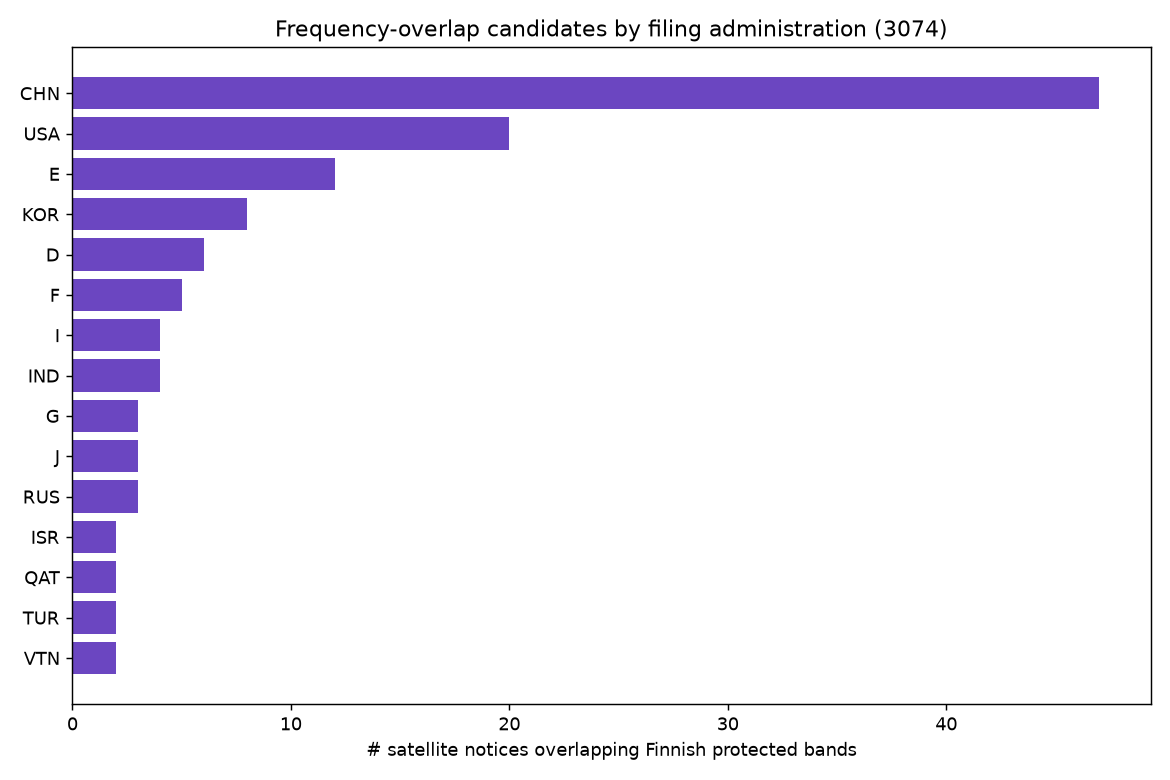
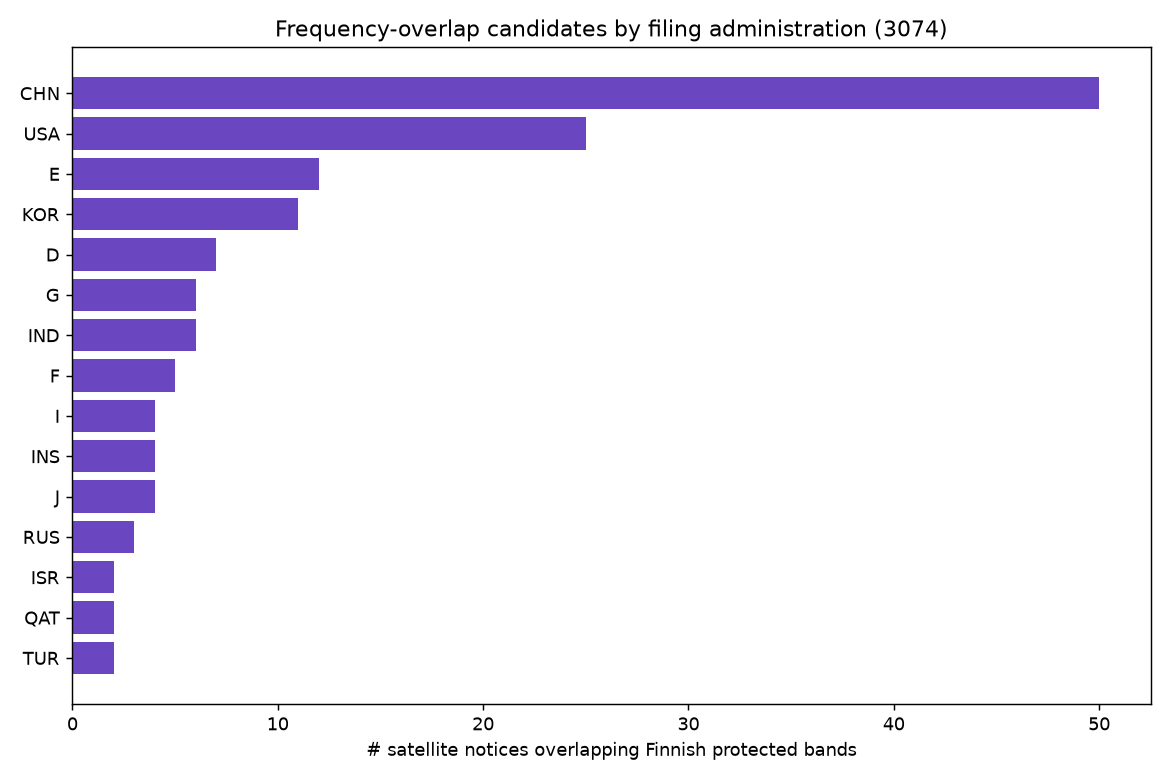
Add adjacent-band interference tier (FDR) to the triage pipeline
- adjacent.py: guard-band search + frequency-dependent rejection (SM.1541-style)
- freq_overlap.py: emit co-channel AND adjacent pairs (proximity/offset)
- pfd_score.py: subtract FDR(offset) from interfering PFD before Article-21 test
- 179 adjacent-band exceedances found (reinforce the same 22 flagged notices)
- REPORT.md + triage plot updated (co-channel vs adjacent split)

diff --git a/analysis/pfd_score.py b/analysis/pfd_score.py
@@ -45,6 +45,7 @@ sys.path.insert(0, str(Path(__file__).resolve().parent))
 from pfd import (slant_range_km, pfd_dbw_m2, elevation_from_central_angle,
                  central_angle_deg, GSO_ALT_KM)
 import article21
+import adjacent
 
 ROOT = Path(__file__).resolve().parent.parent
 SRS = ROOT / "analysis" / "srs3074.db"
@@ -55,8 +56,9 @@ ELEV_SWEEP = np.arange(5, 91, 5)   # achievable elevations to test
 
 def load_inputs():
     srs = sqlite3.connect(SRS)
-    ov = pd.read_sql("""SELECT sat_ntc_id, adm, station_no, overlap_lo_mhz,
-                               overlap_hi_mhz, licence_class, band
+    ov = pd.read_sql("""SELECT sat_ntc_id, adm, station_no, interf_freq_mhz,
+                               proximity, offset_mhz, sat_lo_mhz, sat_hi_mhz,
+                               licence_class, band
                         FROM fin_freq_overlap""", srs)
 
     # per-notice orbit classification
@@ -93,6 +95,7 @@ def load_inputs():
 
     fin = sqlite3.connect(FIN)
     st = pd.read_sql("SELECT station_no, lat, lon FROM v_clean", fin)
+    st = st.drop_duplicates("station_no")      # some station_no repeat in v_clean
     fin.close()
 
     cand = pd.DataFrame({"ntc_id": ov["sat_ntc_id"].unique()})
@@ -139,8 +142,10 @@ def matched_eirp_eff(emis_rows, freq_mhz, ref_bw_hz):
     return best
 
 
-def score_pair(nrow, srow, freq_mhz, cpfd_rows, emis_rows):
-    """Return dict with geometry + PFD margin for one (notice, station) pair."""
+def score_pair(nrow, srow, freq_mhz, cpfd_rows, emis_rows, fdr=0.0):
+    """Return dict with geometry + PFD margin for one (notice, station) pair.
+    `fdr` (dB) is the adjacent-band frequency-dependent rejection subtracted from
+    the interfering PFD (0 for co-channel)."""
     lat, lon = srow["lat"], srow["lon"]
     # ---- step 2: achievable elevations ----
     if nrow["is_gso"]:
@@ -192,6 +197,7 @@ def score_pair(nrow, srow, freq_mhz, cpfd_rows, emis_rows):
     for e, d in zip(elevs, slants):
         lim, _ = article21.limit(freq_mhz, e)
         pfd = declared if src == "declared" else pfd_dbw_m2(eirp_eff, d)
+        pfd -= fdr                              # adjacent-band rejection
         margin = pfd - lim
         rec = {"elev": float(e), "slant_km": float(d), "pfd": pfd,
                "limit": lim, "margin": margin}
@@ -209,13 +215,17 @@ def main():
     for r in ov.itertuples():
         if r.sat_ntc_id not in notice.index or r.station_no not in st.index:
             continue
-        freq_mhz = (r.overlap_lo_mhz + r.overlap_hi_mhz) / 2.0
+        freq_mhz = r.interf_freq_mhz
+        sat_bw = r.sat_hi_mhz - r.sat_lo_mhz
+        fdr = adjacent.fdr_db(r.offset_mhz, sat_bw) if r.proximity == "adjacent" else 0.0
         res = score_pair(notice.loc[r.sat_ntc_id], st.loc[r.station_no],
                          freq_mhz, cpfd_by_ntc.get(r.sat_ntc_id),
-                         emis_by_ntc.get(r.sat_ntc_id))
+                         emis_by_ntc.get(r.sat_ntc_id), fdr)
         res.update({"sat_ntc_id": r.sat_ntc_id, "adm": r.adm,
                     "station_no": r.station_no, "band": r.band,
                     "overlap_freq_mhz": round(freq_mhz, 3),
+                    "proximity": r.proximity, "offset_mhz": round(r.offset_mhz, 2),
+                    "fdr_db": round(fdr, 1),
                     "is_gso": bool(notice.loc[r.sat_ntc_id, "is_gso"])})
         out.append(res)
     df = pd.DataFrame(out).sort_values("margin", ascending=False,
@@ -233,15 +243,18 @@ def main():
     sc = df[df.status == "scored"]
     print(f"\n-- PFD-ASSESSED --  {len(sc)} pairs   "
           f"(source: {sc['pfd_source'].value_counts().to_dict()})")
+    print(f"   proximity: {sc['proximity'].value_counts().to_dict()}")
     exceed = sc[sc.margin > 0]
     print(f"   exceeding Article-21 limit (margin>0): {len(exceed)} pairs, "
           f"{exceed.sat_ntc_id.nunique()} notices, {exceed.station_no.nunique()} stations")
+    print(f"     of which co-channel: {(exceed.proximity=='co').sum()}, "
+          f"adjacent-band: {(exceed.proximity=='adjacent').sum()}")
     print("   NOTE: 'computed' = worst-case (main beam on station); conservative upper bound")
     print("\nTOP 10 PFD exceedances (worst margin):")
-    cols = ["sat_ntc_id","adm","station_no","overlap_freq_mhz","is_gso","elev",
-            "pfd","limit","margin","pfd_source"]
+    cols = ["sat_ntc_id","adm","station_no","overlap_freq_mhz","proximity",
+            "offset_mhz","fdr_db","is_gso","margin","pfd_source"]
     show = sc[cols].head(10).copy()
-    for c in ["elev","pfd","limit","margin"]:
+    for c in ["offset_mhz", "fdr_db", "margin"]:
         show[c] = show[c].round(1)
     print(show.to_string(index=False))
 
@@ -263,14 +276,14 @@ def make_plots(df):
     sc = df[df.status == "scored"].copy()
     fig, ax = plt.subplots(1, 2, figsize=(14, 5.5))
 
-    # (a) worst-case PFD margin distribution, by source
-    for src, color in [("computed","#e53e3e"), ("declared","#2b6cb0")]:
-        d = sc[sc.pfd_source == src]["margin"].dropna()
+    # (a) worst-case PFD margin distribution, co-channel vs adjacent-band
+    for prox, color in [("co","#2b6cb0"), ("adjacent","#d69e2e")]:
+        d = sc[sc.proximity == prox]["margin"].dropna()
         if len(d):
-            ax[0].hist(d, bins=45, alpha=0.6, color=color, label=f"{src} ({len(d)})")
+            ax[0].hist(d, bins=45, alpha=0.6, color=color, label=f"{prox} ({len(d)})")
     ax[0].axvline(0, color="k", ls="--", lw=1)
     ax[0].set_title("Worst-case PFD margin (margin>0 = exceeds Article-21 limit)\n"
-                    "computed = main-beam-on-station upper bound")
+                    "co-channel vs adjacent-band (after FDR)")
     ax[0].set_xlabel("margin (dB)  [PFD - limit]"); ax[0].set_ylabel("pairs")
     ax[0].legend()
 

diff --git a/analysis/freq_overlap.py b/analysis/freq_overlap.py
@@ -21,6 +21,7 @@ Run:  uv run python analysis/freq_overlap.py
 """
 
 import sqlite3
+import sys
 from pathlib import Path
 
 import numpy as np
@@ -28,6 +29,9 @@ import pandas as pd
 import matplotlib
 matplotlib.use("Agg")
 import matplotlib.pyplot as plt
+
+sys.path.insert(0, str(Path(__file__).resolve().parent))
+import adjacent
 
 ROOT = Path(__file__).resolve().parent.parent
 SRS = ROOT / "analysis" / "srs3074.db"
@@ -68,22 +72,36 @@ def load_bands():
 
 
 def compute_overlap(p, s):
+    """Emit CO-channel pairs (bands intersect) AND ADJACENT pairs (within a
+    bandwidth-scaled guard but not overlapping). Each row carries:
+      proximity   : 'co' or 'adjacent'
+      offset_mhz  : frequency gap to the victim (0 for co-channel)
+      interf_freq_mhz : frequency where interference lands (used downstream for
+                   the Article-21 limit / PFD). Co = overlap midpoint;
+                   adjacent = the victim's frequency (where OOBE spills in).
+    """
     rows = []
     lo = p["lo"].to_numpy(); hi = p["hi"].to_numpy()
     for b in s.itertuples():
-        m = (b.lo <= hi) & (lo <= b.hi)          # vectorized interval overlap
-        if not m.any():
-            continue
-        hit = p[m]
-        ov_lo = np.maximum(b.lo, hit["lo"].to_numpy())
-        ov_hi = np.minimum(b.hi, hit["hi"].to_numpy())
-        for i, st in enumerate(hit.itertuples()):
+        bw = max(b.hi - b.lo, 0.0)
+        guard = adjacent.guard_mhz(bw)
+        co = (b.lo <= hi) & (lo <= b.hi)
+        near = (b.lo - guard <= hi) & (lo <= b.hi + guard) & ~co
+        for i in np.where(co)[0]:
+            st = p.iloc[i]
+            mid = (max(b.lo, st.lo) + min(b.hi, st.hi)) / 2.0
             rows.append((b.ntc_id, b.adm, b.lo, b.hi, st.station_no,
-                         st.licence_class, st.tx_freq_mhz,
-                         float(ov_lo[i]), float(ov_hi[i]), st.band))
+                         st.licence_class, st.tx_freq_mhz, "co", 0.0,
+                         float(mid), st.band))
+        for i in np.where(near)[0]:
+            st = p.iloc[i]
+            gap = max(b.lo - st.hi, st.lo - b.hi, 0.0)  # positive separation
+            rows.append((b.ntc_id, b.adm, b.lo, b.hi, st.station_no,
+                         st.licence_class, st.tx_freq_mhz, "adjacent",
+                         float(gap), float(st.tx_freq_mhz), st.band))
     cols = ["sat_ntc_id", "adm", "sat_lo_mhz", "sat_hi_mhz", "station_no",
-            "licence_class", "station_freq_mhz", "overlap_lo_mhz",
-            "overlap_hi_mhz", "band"]
+            "licence_class", "station_freq_mhz", "proximity", "offset_mhz",
+            "interf_freq_mhz", "band"]
     return pd.DataFrame(rows, columns=cols)
 
 
@@ -93,7 +111,9 @@ def save_and_report(ov):
     con.close()
 
     print(f"\n{'='*58}\nFREQUENCY-OVERLAP CANDIDATES (IFIC 3074 downlinks vs FIN)\n{'='*58}")
-    print(f"overlap pairs           : {len(ov)}")
+    print(f"total pairs             : {len(ov)}")
+    print(f"  co-channel            : {(ov['proximity']=='co').sum()}")
+    print(f"  adjacent-band         : {(ov['proximity']=='adjacent').sum()}")
     print(f"satellite notices hit   : {ov['sat_ntc_id'].nunique()} "
           f"(of 196 total)")
     print(f"protected stations hit  : {ov['station_no'].nunique()}")

diff --git a/analysis/adjacent.py b/analysis/adjacent.py
@@ -1,0 +1,48 @@
+"""
+Adjacent-band interference: guard-band search + frequency-dependent rejection.
+
+Co-channel overlap is the floor, not the whole picture. A satellite emission in
+a band NEXT TO a protected channel can still interfere via:
+  - transmitter out-of-band / spurious emission spilling into the victim band;
+  - victim receiver imperfect selectivity / front-end overload.
+
+We model the net attenuation as a Frequency-Dependent Rejection FDR(offset):
+the effective interfering PFD at the victim is  PFD - FDR(offset).  FDR grows
+with the frequency gap, so a close strong neighbour still flags while a distant
+one self-attenuates out of the queue.
+
+This is a SIMPLIFIED generic mask (shape after ITU-R SM.1541 out-of-band
+domain); values are tunable parameters, not a specific equipment mask. The
+victim receiver's own selectivity (ACS) is not in the Finnish dataset, so FDR
+here represents the transmitter side with a conservative spurious floor.
+"""
+
+# OOB domain is taken as ~GUARD_BW_FACTOR satellite-bandwidths beyond the band
+# edge; beyond that the emission is in the spurious floor.
+GUARD_BW_FACTOR = 2.5          # how far out (in sat bandwidths) we still search
+GUARD_FLOOR_MHZ = 1.0          # minimum guard, so narrowband sats still searched
+OOB_SLOPE_DB_PER_BW = 30.0     # rejection rise per satellite-bandwidth of offset
+SPURIOUS_FLOOR_DB = 60.0       # cap: max rejection we credit far out
+MIN_BW_MHZ = 0.1               # floor for normalization (avoid /0 on tiny bands)
+
+
+def guard_mhz(sat_bw_mhz: float) -> float:
+    """How far beyond a satellite band edge to still look for a victim."""
+    bw = max(sat_bw_mhz, MIN_BW_MHZ)
+    return max(GUARD_FLOOR_MHZ, GUARD_BW_FACTOR * bw)
+
+
+def fdr_db(offset_mhz: float, sat_bw_mhz: float) -> float:
+    """Frequency-dependent rejection (dB) for an emission whose nearest band
+    edge is `offset_mhz` away from the victim. offset<=0 => co-channel => 0 dB."""
+    if offset_mhz <= 0:
+        return 0.0
+    u = offset_mhz / max(sat_bw_mhz, MIN_BW_MHZ)   # offset in bandwidths
+    return min(SPURIOUS_FLOOR_DB, OOB_SLOPE_DB_PER_BW * u)
+
+
+if __name__ == "__main__":
+    for bw in [1.0, 40.0]:
+        print(f"sat bandwidth {bw} MHz -> guard {guard_mhz(bw):.1f} MHz")
+        for off in [0, bw*0.5, bw, bw*2, bw*5]:
+            print(f"   offset {off:6.1f} MHz -> FDR {fdr_db(off, bw):5.1f} dB")

diff --git a/analysis/REPORT.md b/analysis/REPORT.md
@@ -223,6 +223,23 @@ Power source is TIERED with provenance (`pfd_source`):
 2. **computed** - worst-case EIRP = `grp.pwr_max + s_beam.gain` (matched beam),
    as a power spectral density in the reference bandwidth. Conservative.
 
+### Adjacent-band tier (co-channel is the floor, not the whole picture)
+A satellite emission in a band *next to* a protected channel can still interfere
+via transmitter out-of-band/spurious emission and victim receiver selectivity.
+So Stage 1 also emits **adjacent** pairs (within a bandwidth-scaled guard but not
+overlapping), and Stage 3 subtracts a **frequency-dependent rejection** from the
+interfering PFD:  `PFD_effective = PFD - FDR(offset)`  (adjacent.py). FDR grows
+with the frequency gap (simplified ITU-R SM.1541-style mask), so a close strong
+neighbour still flags while a distant one self-attenuates out of the queue.
+- Pairs: 8,721 co-channel + ~31k adjacent (most heavily rejected by FDR).
+- Result on 3074: **179 adjacent-band exceedances**, but they fall on the SAME
+  22 notices / 41 stations already flagged co-channel (0 new actors) -> adjacent
+  analysis *reinforces* the co-channel candidates here rather than expanding
+  them. The capability still matters (the brief asks for it; another IFIC could
+  surface new actors) and strengthens the evidence on flagged candidates.
+- Limitation: victim receiver selectivity (ACS) is not in the Finnish dataset,
+  so FDR models the transmitter side with a conservative spurious floor.
+
 ### Two findings that shape the result (and are themselves deliverables)
 1. **Declared PFD doesn't cover the Finnish-overlap frequencies.** 3074's
    declared PFD sits at 1.2 / 5 / 43 GHz; the Finnish overlaps are 1-3 and
